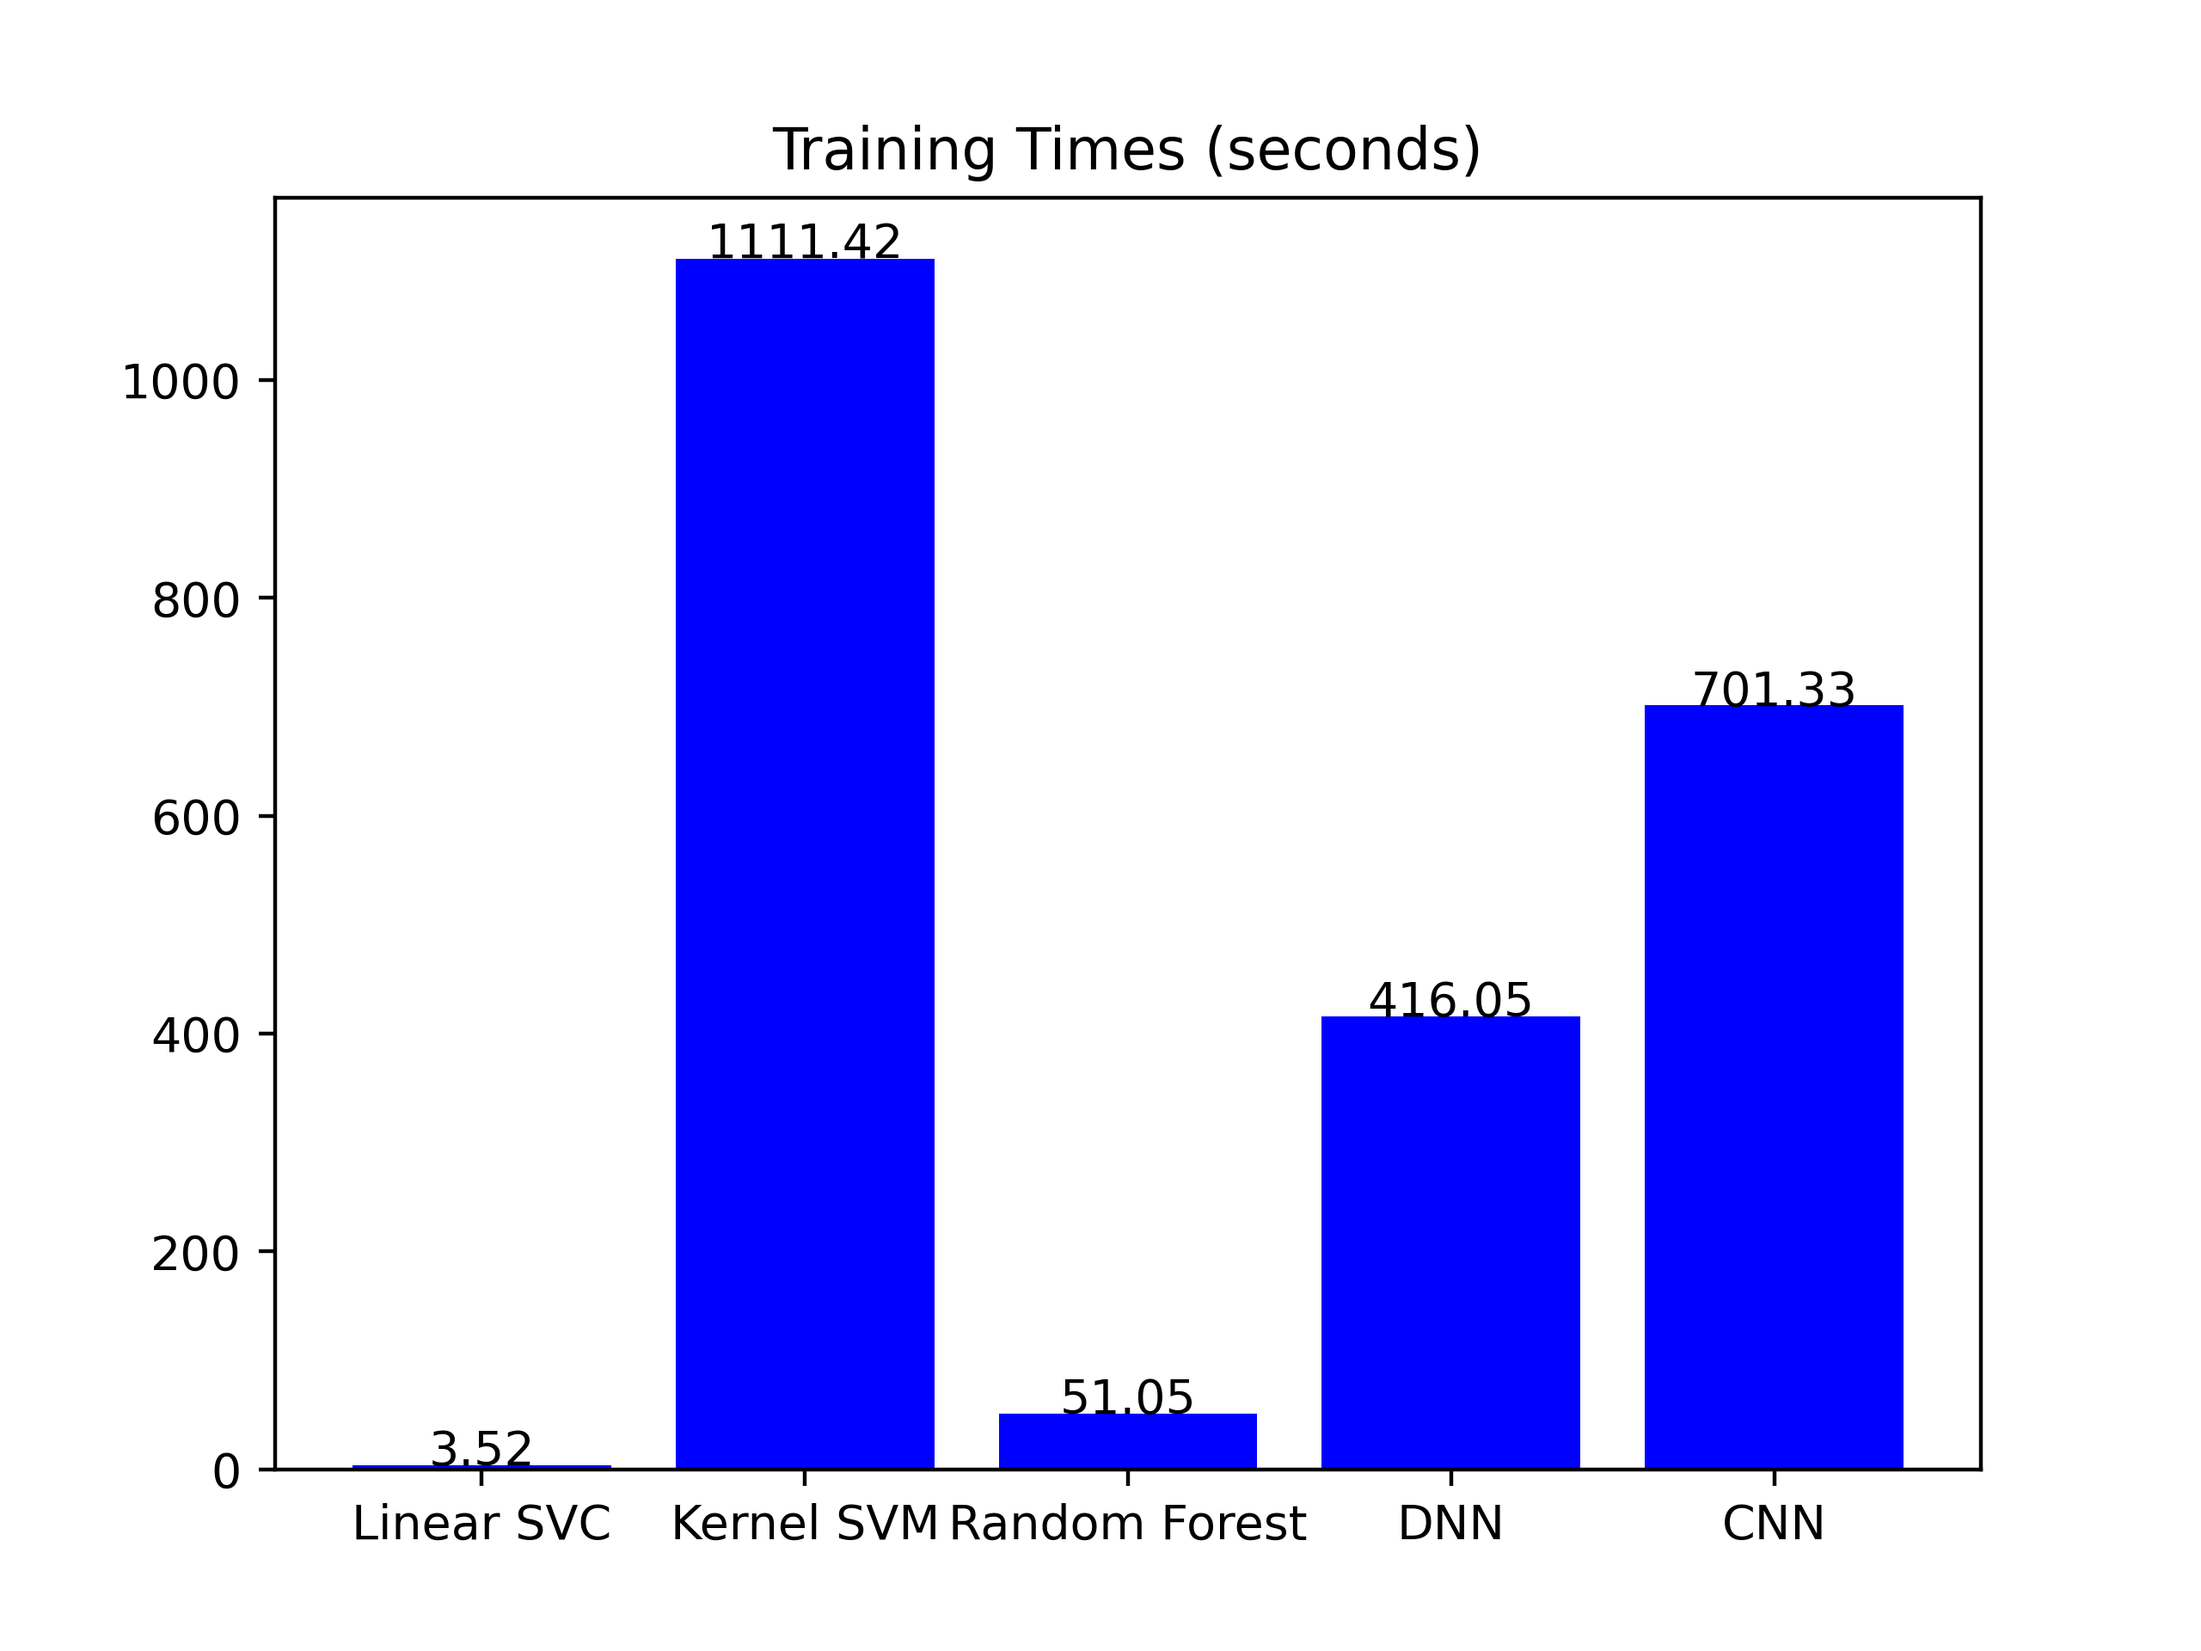
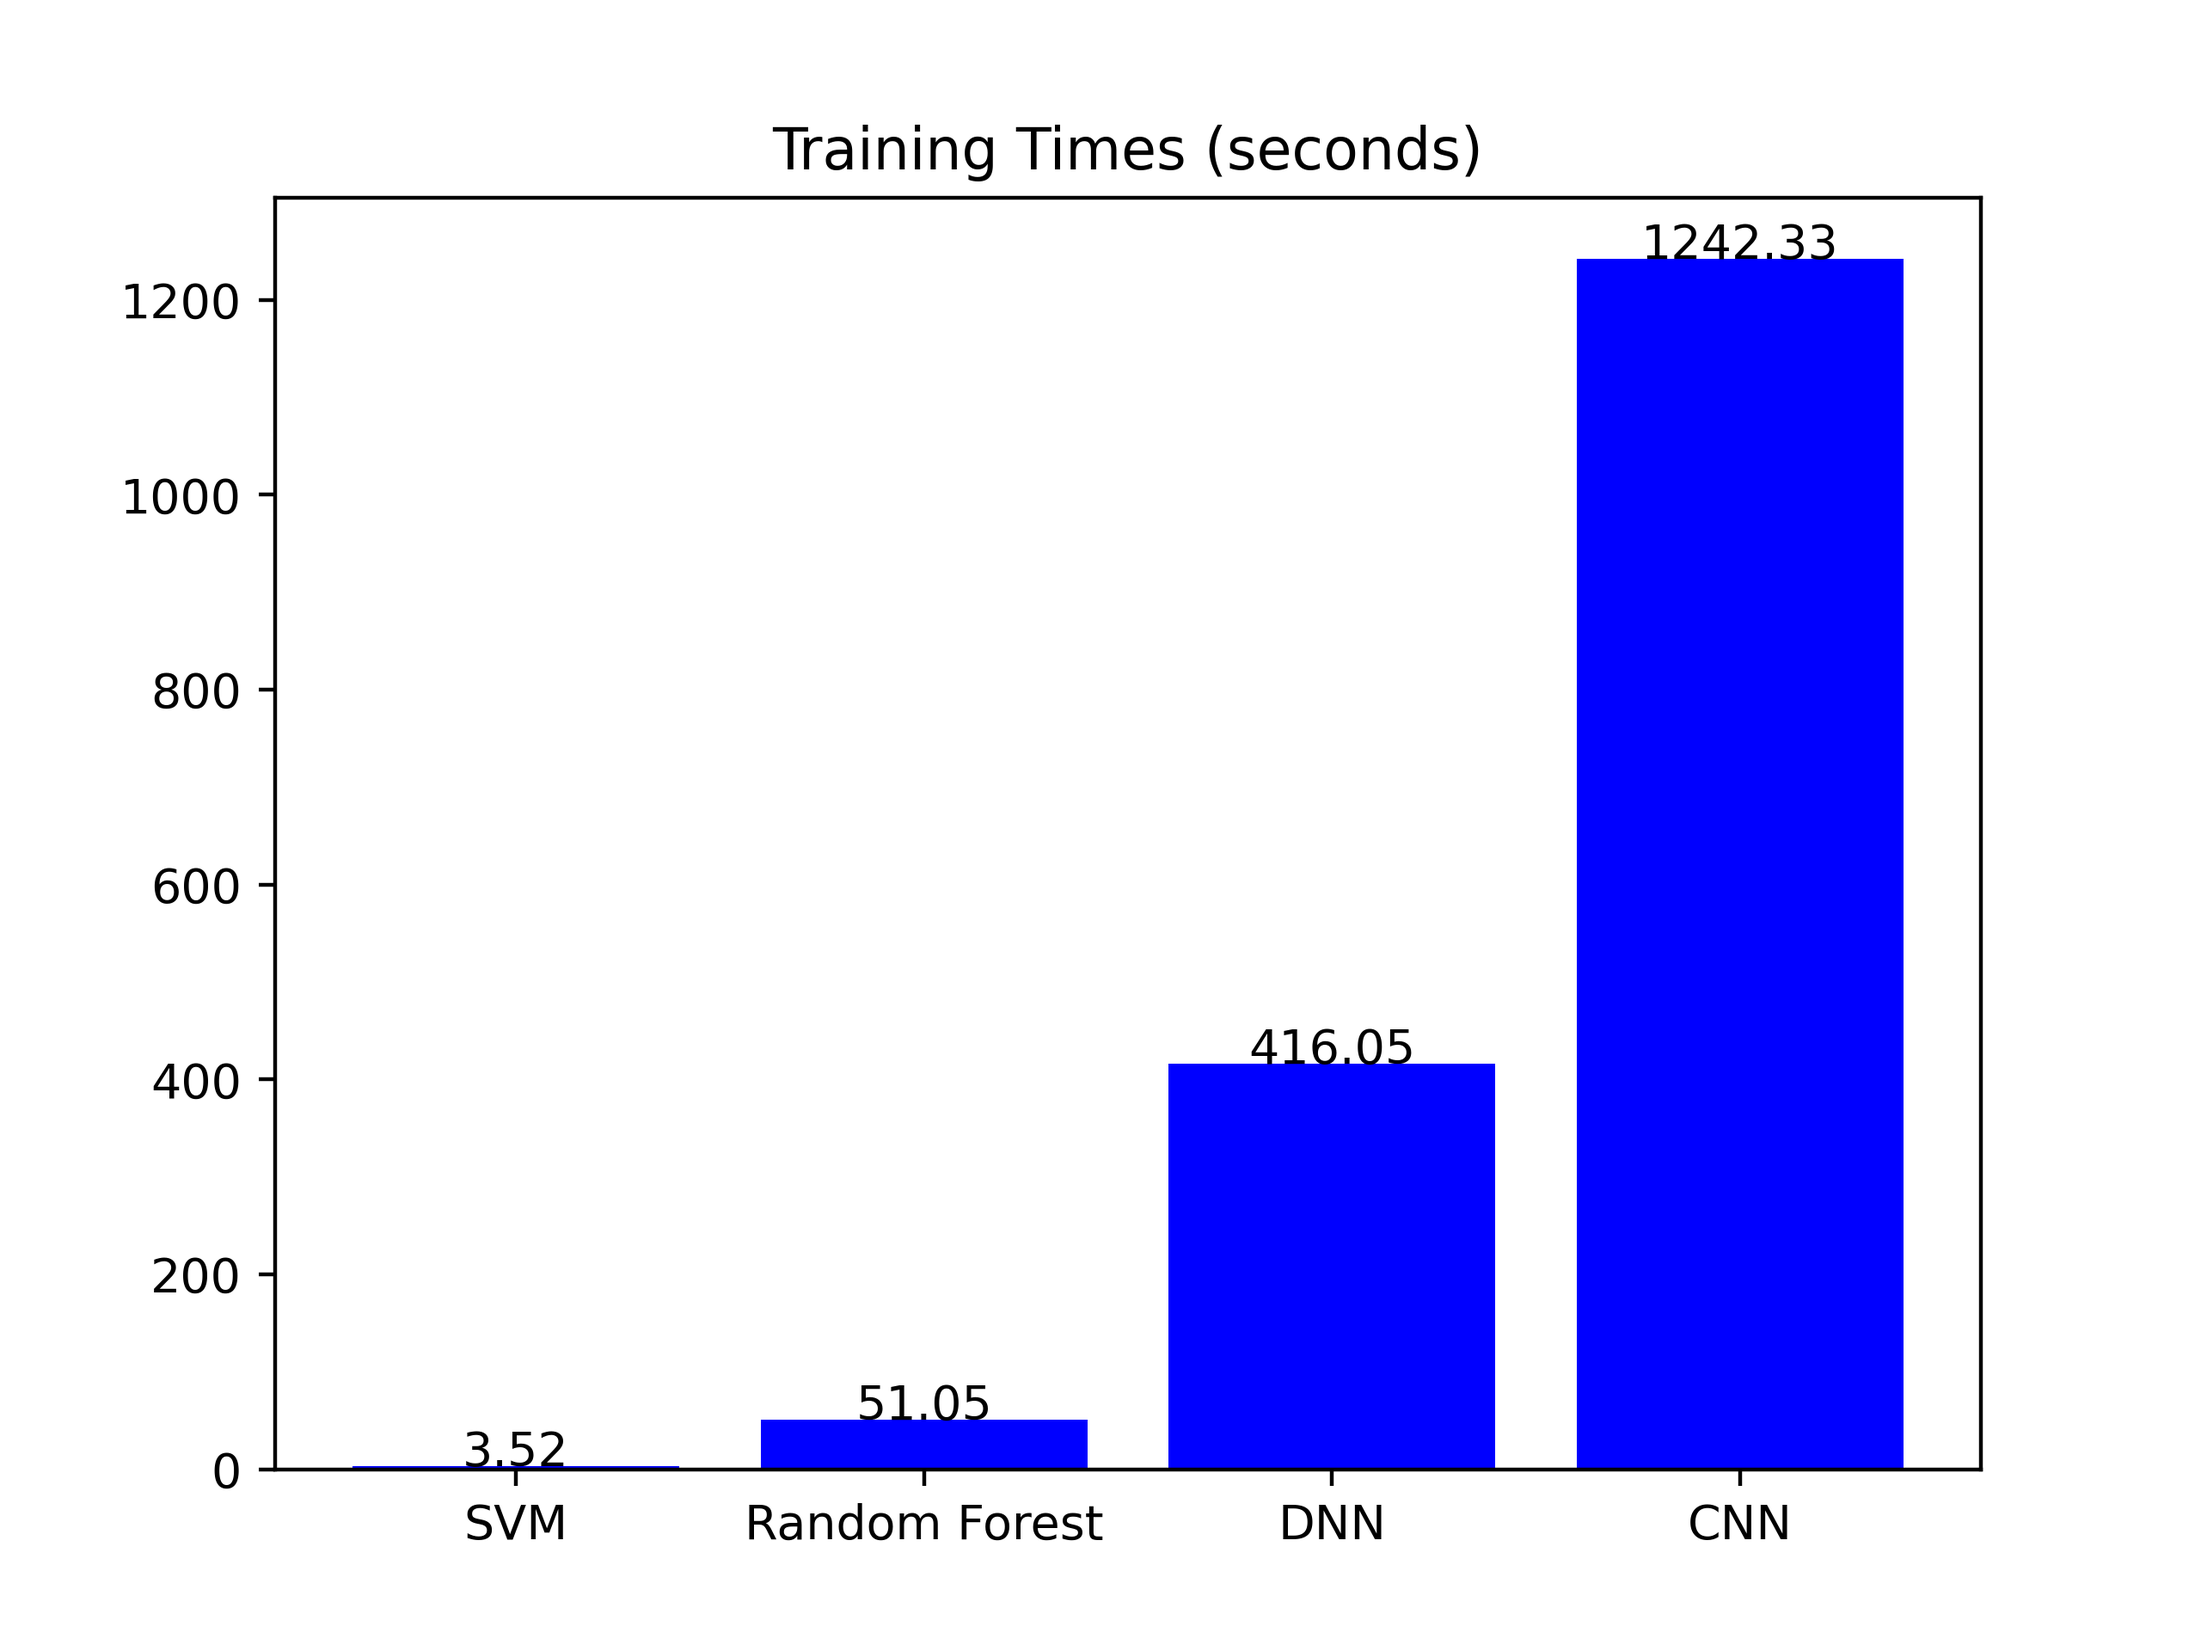
updated graphs, added graphs for pre-optimisation

diff --git a/Metrics/Graphs/classifierGraphs.py b/Metrics/Graphs/classifierGraphs.py
@@ -19,7 +19,7 @@ values_linear_svc = list(linear_svc_data.values())
 x_linear_svc = list(linear_svc_data.keys())
 y_linear_svc = [round (value * 100, 4) for value in values_linear_svc]
 
-create_simple_bar_graph(x=x_linear_svc, y=y_linear_svc, value_labels=True, colour="Red", title="Linear SVC Metrics", save_path="Metrics/Graphs/pngs/linearSvcMetrics.png", dpi=400)
+create_simple_bar_graph(x=x_linear_svc, y=y_linear_svc, value_labels=True, colour="Red", title="SVM (Linear SVC) Metrics", save_path="Metrics/Graphs/pngs/linearSvcMetrics.png", dpi=400)
 
 ## Linear SVM Kernel
 
@@ -36,7 +36,7 @@ values_lk = list(linear_kernel_data.values())
 x_lk = list(linear_kernel_data.keys())
 y_lk = [round (value * 100, 4) for value in values_lk]
 
-create_simple_bar_graph(x=x_lk, y=y_lk, value_labels=True, colour="Red", title="Linear Kernel SVM Metrics", save_path="Metrics/Graphs/pngs/svmKernelMetrics.png", dpi=400)
+create_simple_bar_graph(x=x_lk, y=y_lk, value_labels=True, colour="Red", title="Pre-Optimisation (Linear Kernel) SVM Metrics", save_path="Metrics/Graphs/pngs/preOptimisedSvmKernelMetrics.png", dpi=400)
 
 # Random Forest
 
@@ -55,6 +55,23 @@ y_rf = [round (value * 100, 4) for value in values_rf]
 
 create_simple_bar_graph(x=x_rf, y=y_rf, value_labels=True, colour="Red", title="Random Forest Metrics", save_path="Metrics/Graphs/pngs/rfMetrics.png", dpi=400)
 
+# Random Forest Pre-Optimised
+
+with open("ML/RandomForest/metrics.json", 'r') as file:
+    pre_optimised_rf_data = json.load(file)
+
+# removing training time from json
+
+if training_time in pre_optimised_rf_data :
+    pre_optimised_rf_training_time_data = pre_optimised_rf_data.pop(training_time)
+
+pre_optimised_values_rf = list(pre_optimised_rf_data.values())
+
+x_preop_rf = list(pre_optimised_rf_data.keys())
+y_preop_rf = [round (value * 100, 4) for value in pre_optimised_values_rf]
+
+create_simple_bar_graph(x=x_preop_rf, y=y_preop_rf, value_labels=True, colour="Red", title="Pre-Optimised Random Forest Metrics", save_path="Metrics/Graphs/pngs/preOptimisedRfMetrics.png", dpi=400)
+
 # DNN
 
 with open("DL/DNN/metricsWithDropout.json", 'r') as file:
@@ -72,9 +89,26 @@ y_dnn = [round (value * 100, 4) for value in values_dnn]
 
 create_simple_bar_graph(x=x_dnn, y=y_dnn, value_labels=True, colour="Red", title="DNN Metrics", save_path="Metrics/Graphs/pngs/dnnMetrics.png", dpi=400)
 
+# pre-optimised DNN
+
+with open("DL/DNN/metrics.json", 'r') as file:
+    pre_optimised_dnn_data = json.load(file)
+
+# removing training time from json
+
+if training_time in pre_optimised_dnn_data :
+    pre_optimised_dnn_training_time_data = pre_optimised_dnn_data.pop(training_time)
+
+pre_optimised_values_dnn = list(pre_optimised_dnn_data.values())
+
+x_preop_dnn = list(pre_optimised_dnn_data.keys())
+y_preop_dnn = [round (value * 100, 4) for value in pre_optimised_values_dnn]
+
+create_simple_bar_graph(x=x_preop_dnn, y=y_preop_dnn, value_labels=True, colour="Red", title="Pre-Optimised DNN Metrics", save_path="Metrics/Graphs/pngs/preOptimisedDnnMetrics.png", dpi=400)
+
 # CNN
 
-with open("DL/CNN/metrics.json", 'r') as file:
+with open("DL/CNN/optimizedMetricsWithDropout.json", 'r') as file:
     cnn_data = json.load(file)
 
 # removing training time from json
@@ -89,11 +123,27 @@ y_cnn = [round (value * 100, 4) for value in values_cnn]
 
 create_simple_bar_graph(x=x_cnn, y=y_cnn, value_labels=True, colour="Red", title="CNN Metrics", save_path="Metrics/Graphs/pngs/cnnMetrics.png", dpi=400)
 
+# pre optimised CNN
+
+with open("DL/CNN/metricsWithEarlyStopping.json", 'r') as file:
+    pre_optimised_cnn_data = json.load(file)
+
+# removing training time from json
+
+if training_time in pre_optimised_cnn_data :
+    pre_optimised_cnn_training_time_data = pre_optimised_cnn_data.pop(training_time)
+
+pre_optimised_values_cnn = list(pre_optimised_cnn_data.values())
+
+x_preop_cnn = list(pre_optimised_cnn_data.keys())
+y_preop_cnn = [round (value * 100, 4) for value in pre_optimised_values_cnn]
+
+create_simple_bar_graph(x=x_preop_cnn, y=y_preop_cnn, value_labels=True, colour="Red", title="Pre-Optimised CNN Metrics", save_path="Metrics/Graphs/pngs/preOptimisedCnnMetrics.png", dpi=400)
+
 # Training Times graph
 
 training_times = {
-    "Linear SVC" : linear_svc_training_time_data,
-    "Kernel SVM" : linear_kernel_training_time_data,
+    "SVM" : linear_svc_training_time_data,
     "Random Forest" : rf_training_time_data,
     "DNN" : dnn_training_time_data,
     "CNN" : cnn_training_time_data
@@ -106,4 +156,18 @@ y_times = [round(value, 2) for value in values_times]
 
 create_simple_bar_graph(x=x_times, y=y_times, value_labels=True, colour="Blue", title="Training Times (seconds)", save_path="Metrics/Graphs/pngs/trainingTimesMetrics.png", dpi=400)
 
+# Pre Optimised Training Times graph
 
+pre_op_training_times = {
+    "SVM " : linear_kernel_training_time_data,
+    "Random Forest" : pre_optimised_rf_training_time_data,
+    "DNN" : pre_optimised_dnn_training_time_data,
+    "CNN" : pre_optimised_cnn_training_time_data
+}
+
+pre_optimised_values_times = list(pre_op_training_times.values())
+
+x_preop_times = list(pre_op_training_times.keys())
+y_preop_times = [round(value, 2) for value in pre_optimised_values_times]
+
+create_simple_bar_graph(x=x_preop_times, y=y_preop_times, value_labels=True, colour="Blue", title="Pre-Optimised Training Times (seconds)", save_path="Metrics/Graphs/pngs/preOptimisedTrainingTimesMetrics.png", dpi=400)
